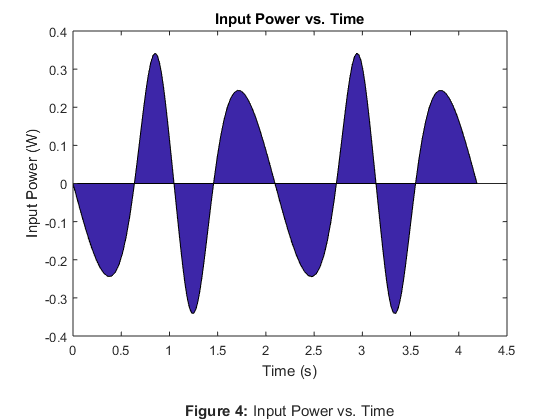
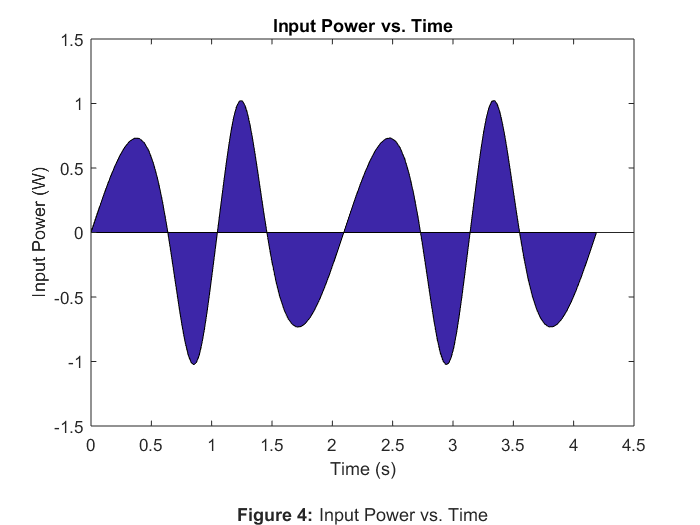
Commenting; fixed power input

diff --git a/Lab 5b/html/Rahul_Goyal_main.html b/Lab 5b/html/Rahul_Goyal_main.html
@@ -66,7 +66,7 @@ table td { padding:7px 5px; text-align:left; vertical-align:top; border:1px soli
 
 
 
-  </style></head><body><div class="content"><h1>Rahul_Goyal_main Usage and Description</h1><!--introduction--><p>ME 326 Winter 2018 - Laboratory Assignment #5b</p><p><b>Author:</b> RAHUL GOYAL</p><p>California Polytechnic State University, San Luis Obispo, CA</p><p><b>Date Created:</b> February 27, 2018</p><p><b>Date Modified:</b> March 06, 2018</p><p><b>Description:</b> TODO</p><p><b>Required Files:</b> TODO</p><div><ul><li>Simulator.slx - This file uses Simulink to double integrate part of a MATLAB Function Block which describes the accelerations and forces of the simulation (only the accelerations are integrated). It outputs the positions as xout, the velocities as vout, the accelerations as aout, the forces as Fout, and the times as tout with inputs of the MATLAB function, initial conditions, and final condition.</li><li>link_solver.m - This file contains a function that represents the accelerations and forces of the simulation. It returns x with an input of u.</li></ul></div><p><b>Still To Do:</b></p><div><ul><li>Start!</li></ul></div><!--/introduction--><h2>Contents</h2><div><ul><li><a href="#1">Problem Statement</a></li><li><a href="#2">Reset</a></li><li><a href="#3">Set Values</a></li><li><a href="#4">Given Values</a></li><li><a href="#5">Initial Conditions</a></li><li><a href="#6">Simulate the Slider-Crank Using Simulink</a></li><li><a href="#7">Plotting Data Setup</a></li><li><a href="#8">Collar Force vs. Crank Angle</a></li><li><a href="#9">Magnitude of Each Pin Force vs. Crank Angle</a></li><li><a href="#10">Input Torque vs. Crank Angle</a></li><li><a href="#11">Input Power vs. Time</a></li><li><a href="#12">Simulation Animation</a></li></ul></div><h2 id="1">Problem Statement</h2><p>Crank OA rotates clockwise at the constant rate theta-dot = 3 rad/s. The connecting link AB passes through the pivoted collar at C. Note: lAB = 350 mm. Develop a complete kinematic and kinetic model of the slider-crank mechanism.</p><h2 id="2">Reset</h2><p>The following was used while debugging.</p><pre class="codeinput">close <span class="string">all</span>;
+  </style></head><body><div class="content"><h1>Rahul_Goyal_main Usage and Description</h1><!--introduction--><p>ME 326 Winter 2018 - Laboratory Assignment #5b</p><p><b>Author:</b> RAHUL GOYAL</p><p>California Polytechnic State University, San Luis Obispo, CA</p><p><b>Date Created:</b> February 27, 2018</p><p><b>Date Modified:</b> March 06, 2018</p><p><b>Description:</b> This script simulates the motion of a slider-crank. Afterwards, it compares the collar force, the magnitude of each pin force, and the input torque to the angular position of link OA and the input power to time. Additionally, it animates the slider-crank by using the simulation data.</p><p><b>Required Files:</b></p><div><ul><li>Simulator.slx - This file uses Simulink to double integrate part of a MATLAB Function Block which describes the accelerations and forces of the simulation (only the accelerations are integrated). It outputs the positions as xout, the velocities as vout, the accelerations as aout, the forces as Fout, and the times as tout with inputs of the MATLAB function, initial conditions, and final condition.</li><li>link_solver.m - This file contains a function that represents the accelerations and forces of the simulation. It returns x with an input of u.</li></ul></div><p><b>Still To Do:</b></p><div><ul><li>Start!</li></ul></div><!--/introduction--><h2>Contents</h2><div><ul><li><a href="#1">Problem Statement</a></li><li><a href="#2">Reset</a></li><li><a href="#3">Set Values</a></li><li><a href="#4">Given Values</a></li><li><a href="#5">Initial Conditions</a></li><li><a href="#6">Simulate the Slider-Crank Using Simulink</a></li><li><a href="#7">Plotting Data Setup</a></li><li><a href="#8">Collar Force vs. Crank Angle</a></li><li><a href="#9">Magnitude of Each Pin Force vs. Crank Angle</a></li><li><a href="#10">Input Torque vs. Crank Angle</a></li><li><a href="#11">Input Power vs. Time</a></li><li><a href="#12">Simulation Animation</a></li></ul></div><h2 id="1">Problem Statement</h2><p>Crank OA rotates clockwise at the constant rate theta-dot = 3 rad/s. The connecting link AB passes through the pivoted collar at C. Note: lAB = 350 mm. Develop a complete kinematic and kinetic model of the slider-crank mechanism.</p><h2 id="2">Reset</h2><p>The following was used while debugging.</p><pre class="codeinput">close <span class="string">all</span>;
 clear <span class="string">all</span>;
 clc;
 </pre><h2 id="3">Set Values</h2><p>The following is used to easily change the initial and final angular positions of link OA.</p><pre class="codeinput">t2_0 = deg2rad(0);              <span class="comment">% Angular position initial of link OA (rad)</span>
@@ -114,25 +114,25 @@ ydot3_0 = tdot_2*r_2*cos(t2_0) - tdot3_0*l_ab/2*cos(t3_0);
 <span class="comment">% Velocity Initial Conditions Matrix</span>
 v_0 = [rdot3_0, tdot3_0, xdot2_0, ydot2_0, xdot3_0, ydot3_0];
 </pre><h2 id="6">Simulate the Slider-Crank Using Simulink</h2><p>The following calls the Simulink file Simulator.slx, which outputs the positions as xout, the velocities as vout, the accelerations as aout, the forces as Fout, and the times as tout with with link_solver.m as the input for the MATLAB Fuction, tdot_2, t2_0, v_0, and x_0 as the inputs for the initial conditions, and theta2_stop as the input for the final conditions.</p><pre class="codeinput">sim(<span class="string">'Simulator.slx'</span>);
-</pre><h2 id="7">Plotting Data Setup</h2><p>The following sets up easy access to data for plotting.</p><pre class="codeinput"><span class="comment">% TODO</span>
-t_2s = t2_0 + tdot_2*tout;
+</pre><h2 id="7">Plotting Data Setup</h2><p>The following sets up easy access to data for plotting.</p><pre class="codeinput">t_2s = t2_0 + tdot_2*tout;      <span class="comment">% Angular positions of link OA (rad)</span>
 
-FO_x = Fout(:, 1);              <span class="comment">% TODO</span>
-FO_y = Fout(:, 2);              <span class="comment">% TODO</span>
-FA_x = Fout(:, 3);              <span class="comment">% TODO</span>
-FA_y = Fout(:, 4);              <span class="comment">% TODO</span>
-F_C = Fout(:, 5);               <span class="comment">% TODO</span>
-T = Fout(:, 6);                 <span class="comment">% TODO</span>
-</pre><h2 id="8">Collar Force vs. Crank Angle</h2><p>The following plots the collar force as a function of crank angle.</p><p>By visual observation, the graph has periodic relative maximums at about -75&deg; and -225&deg;, periodic relative minimums at about -150&deg; and -300&deg;, and periodic zeroes at about 0&deg;, -100&deg;, -175&deg;, and -250&deg;. Converting these angles to positive values, the graph has periodic relative maximums at about 285&deg; and 135&deg;, periodic relative minimums at about 210&deg; and 60&deg;, and periodic zeroes at about 0&deg;, 260&deg;, 185&deg;, and 110&deg;.</p><p>The relative maximums and minimums signify peaks in the magnitude of the collar force; the zeroes signify zeroes in the magnitude of the collar force. Watching an animation of the slider-crank, the collar force peaks seem to occur when the velocity of link AB with respect to the collar is changing most noticeably and the collar force zeroes seem to occur when the velocity of link AB with respect to the collar flips directions. This behavior is as expected because acceleration is the derivative of velocity, and net force is directly and linearly related to acceleration. The collar exerts a force on link AB, and so it is reasonable that this force behaves similarly to the expected net force on link AB. However, because the collar force and the net force are not the same, analysis of the collar force reveals some smaller relative peaks as well. These are likely a result of the fact that the ceneter of mass of link AB crosses the collar.</p><pre class="codeinput">plot(rad2deg(t_2s), F_C, <span class="string">'LineWidth'</span>, 2);
+FO_x = Fout(:, 1);              <span class="comment">% Force[x] in pin O (N)</span>
+FO_y = Fout(:, 2);              <span class="comment">% Force[y] in pin O (N)</span>
+FA_x = Fout(:, 3);              <span class="comment">% Force[x] in pin A (N)</span>
+FA_y = Fout(:, 4);              <span class="comment">% Force[y] in pin A (N)</span>
+F_C = Fout(:, 5);               <span class="comment">% Force in pin C (N)</span>
+T = Fout(:, 6);                 <span class="comment">% Input torque (Nm)</span>
+</pre><h2 id="8">Collar Force vs. Crank Angle</h2><p>The following plots the collar force as a function of crank angle.</p><p>By visual observation, the graph has periodic relative maximums at about -75&deg; and -225&deg;, periodic relative minimums at about -150&deg; and -300&deg;, and periodic zeroes at about 0&deg;, -100&deg;, -175&deg;, and -250&deg;. Converting these angles to positive values, the graph has periodic relative maximums at about 285&deg; and 135&deg;, periodic relative minimums at about 210&deg; and 60&deg;, and periodic zeroes at about 0&deg;, 260&deg;, 185&deg;, and 110&deg;.</p><p>The maximums and minimums signify maximum and minimum peaks, respectively, in the collar force; the zeroes signify zeroes in the magnitude of the collar force. Watching an animation of the slider-crank, the collar force peaks seem to occur when the velocity of link AB with respect to the collar is changing most noticeably and the collar force zeroes seem to occur when the velocity of link AB with respect to the collar flips directions. This behavior is as expected because acceleration is the derivative of velocity, and net force is directly and linearly related to acceleration. The collar exerts a force on link AB, and so it is reasonable that this force behaves similarly to the expected net force on link AB. However, because the collar force and the net force are not the same, analysis of the collar force reveals some smaller relative peaks as well. These are likely a result of the fact that the center of mass of link AB crosses the collar.</p><pre class="codeinput">plot(rad2deg(t_2s), F_C, <span class="string">'LineWidth'</span>, 2);
 title(<span class="string">'Collar Force vs. Crank Angle'</span>);
 xlabel({<span class="string">'Crank Angle (&deg;)'</span>
         <span class="string">''</span>
         <span class="comment">% Figure label</span>
         <span class="string">'\bfFigure 1: \rmCollar Force vs. Crank Angle'</span>});
 ylabel(<span class="string">'Collar Force (N)'</span>);
-</pre><img vspace="5" hspace="5" src="Rahul_Goyal_main_01.png" alt=""> <h2 id="9">Magnitude of Each Pin Force vs. Crank Angle</h2><p>The following plots the magnitude of each pin force as a function of crank angle.</p><p>The graphs of the magnitudes of each pin force resemble each other. By visual observation, both graphs have a periodic relative maximum at about -175&deg; and periodic relative minimums at about -100&deg; and -250&deg;. Converting these angles to positive values, the graphs have a periodic relative maximum at about 185&deg; and periodic relative minimums at about 260&deg; and 110&deg;.</p><p>The relative maximums and minimums signify maximum and minimum peaks, respectively, in pin O and pin A. Unlike the collar force, neither pin force is ever zero. TODO</p><pre class="codeinput">F_O = hypot(FO_x, FO_y);        <span class="comment">% Magnitude of force of pin O (N)</span>
+</pre><img vspace="5" hspace="5" src="Rahul_Goyal_main_01.png" style="width:560px;height:420px;" alt=""> <h2 id="9">Magnitude of Each Pin Force vs. Crank Angle</h2><p>The following plots the magnitude of each pin force as a function of crank angle.</p><p>The graphs of the magnitudes of each pin force resemble each other. By visual observation, both graphs have periodic relative maximums at about 0&deg; and -175&deg; and periodic relative minimums at about -100&deg; and -250&deg;. Converting these angles to positive values, the graphs have a periodic relative maximum at about 0&deg; and 185&deg; and periodic relative minimums at about 260&deg; and 110&deg;.</p><p>The maximums and minimums signify peaks in the magnitude of the force in pin O and pin A. Unlike the collar force, neither pin force is ever zero. TODO</p><pre class="codeinput">F_O = hypot(FO_x, FO_y);        <span class="comment">% Magnitude of force of pin O (N)</span>
 F_A = hypot(FA_x, FA_y);        <span class="comment">% Magnitude of force of pin A (N)</span>
 
+<span class="comment">% Plot</span>
 plot(rad2deg(t_2s), F_O, rad2deg(t_2s), F_A, <span class="string">'LineWidth'</span>, 2);
 title(<span class="string">'Magnitude of Each Pin Force vs. Crank Angle'</span>);
 xlabel({<span class="string">'Crank Angle (&deg;)'</span>
@@ -141,21 +141,24 @@ xlabel({<span class="string">'Crank Angle (&deg;)'</span>
         <span class="string">'\bfFigure 2: \rmMagnitude of Each Pin Force vs. Crank Angle'</span>});
 ylabel(<span class="string">'Pin Force (N)'</span>);
 legend(<span class="string">'|Fo|'</span>, <span class="string">'|Fa|'</span>);
-</pre><img vspace="5" hspace="5" src="Rahul_Goyal_main_02.png" alt=""> <h2 id="10">Input Torque vs. Crank Angle</h2><p>The following plots the input torque as a function of crank angle.</p><p>By visual observation, the input torque behaves like a negative derivative of the magnitude of each pin force. TODO</p><pre class="codeinput">plot(rad2deg(t_2s), T, <span class="string">'LineWidth'</span>, 2);
+</pre><img vspace="5" hspace="5" src="Rahul_Goyal_main_02.png" style="width:560px;height:420px;" alt=""> <h2 id="10">Input Torque vs. Crank Angle</h2><p>The following plots the input torque as a function of crank angle.</p><p>By visual observation, the graph has a periodic relative maximums at about -150&deg; and -300&deg;, periodic relative minimums at about -75&deg; and -225&deg;, and periodic zeroes at about 0&deg;, -100&deg;, -175&deg;, and -250&deg;. Converting these angles to positive values, the graph has periodic relative maximums at about 210&deg; and 60&deg;, periodic relative minimums at about 285&deg; and 135&deg;, and periodic zeroes at about 0&deg;, 260&deg;, 185&deg;, and 110&deg;.</p><p>The maximums and minimums signify maximum and minimum peaks, respectively, in the input torque. Comparing the maximums and minimums of the input torque to the maximums and minimums of the collar force, it's seen that the input torque increases as the collar force decreases, and vice versa.</p><p>Interestingly, the input torque behaves almost like a negative derivative of the magnitude of each pin force, but this is likely just a coincidence.</p><pre class="codeinput">plot(rad2deg(t_2s), T, <span class="string">'LineWidth'</span>, 2);
 title(<span class="string">'Input Torque vs. Crank Angle'</span>);
 xlabel({<span class="string">'Crank Angle (&deg;)'</span>
         <span class="string">''</span>
         <span class="comment">% Figure label</span>
         <span class="string">'\bfFigure 3: \rmInput Torque vs. Crank Angle'</span>});
 ylabel(<span class="string">'Input Torque (Nm)'</span>);
-</pre><img vspace="5" hspace="5" src="Rahul_Goyal_main_03.png" alt=""> <h2 id="11">Input Power vs. Time</h2><p>The following plots the input power as a function of time. TODO</p><pre class="codeinput">area(tout, T);
+</pre><img vspace="5" hspace="5" src="Rahul_Goyal_main_03.png" style="width:560px;height:420px;" alt=""> <h2 id="11">Input Power vs. Time</h2><p>The following plots the input power as a function of time.</p><p>The input power can be defined by the input torque times the angular velocity. The area under the curve represents energy because energy is equivalent to the integral of power with respect to time.</p><p>The graph of the input power resembles the graph of the input torque, however this is only because the angular velocity of link OA is constant. By visual observation, the areas under the curve sum to zero. Therefore, energy is conserved over a cycle.</p><pre class="codeinput">P = T*tdot_2;                   <span class="comment">% Input power (W)</span>
+
+<span class="comment">% Plot</span>
+area(tout, P);
 title(<span class="string">'Input Power vs. Time'</span>);
 xlabel({<span class="string">'Time (s)'</span>
         <span class="string">''</span>
         <span class="comment">% Figure label</span>
         <span class="string">'\bfFigure 4: \rmInput Power vs. Time'</span>});
 ylabel(<span class="string">'Input Power (W)'</span>);
-</pre><img vspace="5" hspace="5" src="Rahul_Goyal_main_04.png" alt=""> <h2 id="12">Simulation Animation</h2><p>The following animates the slider-crank by using the simulation data.</p><pre class="codeinput"><span class="comment">% Cartesian Coordinates of Vector R1</span>
+</pre><img vspace="5" hspace="5" src="Rahul_Goyal_main_04.png" style="width:560px;height:420px;" alt=""> <h2 id="12">Simulation Animation</h2><p>The following animates the slider-crank by using the simulation data.</p><pre class="codeinput"><span class="comment">% Cartesian Coordinates of Vector R1</span>
 r1_x = [0, r_1];
 r1_y = [0, 0];
 <span class="comment">% Cartesian Coordinates of the COM of Vector R1</span>
@@ -227,7 +230,7 @@ ylabel(<span class="string">'Y Position (m)'</span>);
 legend(<span class="string">'Vector R1'</span>, <span class="string">'Vector R2'</span>, <span class="string">'Link AB'</span>, <span class="keyword">...</span>
        <span class="string">'Path of Link OA COM'</span>, <span class="string">'Path of Link AB COM'</span>, <span class="keyword">...</span>
        <span class="string">'Path of Point A'</span>, <span class="string">'Path of Point B'</span>);
-</pre><img vspace="5" hspace="5" src="Rahul_Goyal_main_05.png" alt=""> <p class="footer"><br><a href="http://www.mathworks.com/products/matlab/">Published with MATLAB&reg; R2017a</a><br></p></div><!--
+</pre><img vspace="5" hspace="5" src="Rahul_Goyal_main_05.png" style="width:560px;height:420px;" alt=""> <p class="footer"><br><a href="http://www.mathworks.com/products/matlab/">Published with MATLAB&reg; R2017a</a><br></p></div><!--
 ##### SOURCE BEGIN #####
 %% Rahul_Goyal_main Usage and Description
 % ME 326 Winter 2018 - Laboratory Assignment #5b
@@ -241,9 +244,12 @@ legend(<span class="string">'Vector R1'</span>, <span class="string">'Vector R2'
 % *Date Modified:* March 06, 2018
 %
 % *Description:*
-% TODO
+% This script simulates the motion of a slider-crank. Afterwards, it
+% compares the collar force, the magnitude of each pin force, and the input
+% torque to the angular position of link OA and the input power to time.
+% Additionally, it animates the slider-crank by using the simulation data.
 % 
-% *Required Files:* TODO
+% *Required Files:*
 %
 % * Simulator.slx - This file uses Simulink to double integrate part of a
 % MATLAB Function Block which describes the accelerations and forces of the
@@ -354,15 +360,14 @@ sim('Simulator.slx');
 %% Plotting Data Setup
 % The following sets up easy access to data for plotting.
 
-% TODO
-t_2s = t2_0 + tdot_2*tout;
+t_2s = t2_0 + tdot_2*tout;      % Angular positions of link OA (rad)
 
-FO_x = Fout(:, 1);              % TODO
-FO_y = Fout(:, 2);              % TODO
-FA_x = Fout(:, 3);              % TODO
-FA_y = Fout(:, 4);              % TODO
-F_C = Fout(:, 5);               % TODO
-T = Fout(:, 6);                 % TODO
+FO_x = Fout(:, 1);              % Force[x] in pin O (N)
+FO_y = Fout(:, 2);              % Force[y] in pin O (N)
+FA_x = Fout(:, 3);              % Force[x] in pin A (N)
+FA_y = Fout(:, 4);              % Force[y] in pin A (N)
+F_C = Fout(:, 5);               % Force in pin C (N)
+T = Fout(:, 6);                 % Input torque (Nm)
 
 
 
@@ -376,20 +381,20 @@ T = Fout(:, 6);                 % TODO
 % about 285° and 135°, periodic relative minimums at about 210° and 60°,
 % and periodic zeroes at about 0°, 260°, 185°, and 110°.
 % 
-% The relative maximums and minimums signify peaks in the magnitude of the
-% collar force; the zeroes signify zeroes in the magnitude of the collar
-% force. Watching an animation of the slider-crank, the collar force peaks
-% seem to occur when the velocity of link AB with respect to the collar is
-% changing most noticeably and the collar force zeroes seem to occur when
-% the velocity of link AB with respect to the collar flips directions. This
-% behavior is as expected because acceleration is the derivative of
-% velocity, and net force is directly and linearly related to acceleration.
-% The collar exerts a force on link AB, and so it is reasonable that this
-% force behaves similarly to the expected net force on link AB. However,
-% because the collar force and the net force are not the same, analysis of
-% the collar force reveals some smaller relative peaks as well. These are
-% likely a result of the fact that the ceneter of mass of link AB crosses
-% the collar.
+% The maximums and minimums signify maximum and minimum peaks,
+% respectively, in the collar force; the zeroes signify zeroes in the
+% magnitude of the collar force. Watching an animation of the slider-crank,
+% the collar force peaks seem to occur when the velocity of link AB with
+% respect to the collar is changing most noticeably and the collar force
+% zeroes seem to occur when the velocity of link AB with respect to the
+% collar flips directions. This behavior is as expected because
+% acceleration is the derivative of velocity, and net force is directly and
+% linearly related to acceleration. The collar exerts a force on link AB,
+% and so it is reasonable that this force behaves similarly to the expected
+% net force on link AB. However, because the collar force and the net force
+% are not the same, analysis of the collar force reveals some smaller
+% relative peaks as well. These are likely a result of the fact that the
+% center of mass of link AB crosses the collar.
 plot(rad2deg(t_2s), F_C, 'LineWidth', 2);
 title('Collar Force vs. Crank Angle');
 xlabel({'Crank Angle (°)'
@@ -405,19 +410,20 @@ ylabel('Collar Force (N)');
 % crank angle.
 % 
 % The graphs of the magnitudes of each pin force resemble each other. By
-% visual observation, both graphs have a periodic relative maximum at about
-% -175° and periodic relative minimums at about -100° and -250°. Converting
-% these angles to positive values, the graphs have a periodic relative
-% maximum at about 185° and periodic relative minimums at about 260° and
-% 110°.
+% visual observation, both graphs have periodic relative maximums at about
+% 0° and -175° and periodic relative minimums at about -100° and -250°.
+% Converting these angles to positive values, the graphs have a periodic
+% relative maximum at about 0° and 185° and periodic relative minimums at
+% about 260° and 110°.
 % 
-% The relative maximums and minimums signify maximum and minimum peaks,
-% respectively, in pin O and pin A. Unlike the collar force, neither pin
-% force is ever zero. TODO
+% The maximums and minimums signify peaks in the magnitude of the force in
+% pin O and pin A. Unlike the collar force, neither pin force is ever zero.
+% TODO
 
 F_O = hypot(FO_x, FO_y);        % Magnitude of force of pin O (N)
 F_A = hypot(FA_x, FA_y);        % Magnitude of force of pin A (N)
 
+% Plot
 plot(rad2deg(t_2s), F_O, rad2deg(t_2s), F_A, 'LineWidth', 2);
 title('Magnitude of Each Pin Force vs. Crank Angle');
 xlabel({'Crank Angle (°)'
@@ -432,8 +438,23 @@ legend('|Fo|', '|Fa|');
 %% Input Torque vs. Crank Angle
 % The following plots the input torque as a function of crank angle.
 % 
-% By visual observation, the input torque behaves like a negative
-% derivative of the magnitude of each pin force. TODO
+% By visual observation, the graph has a periodic relative maximums at
+% about -150° and -300°, periodic relative minimums at about -75° and
+% -225°, and periodic zeroes at about 0°, -100°, -175°, and -250°. 
+% Converting these angles to positive values, the graph has periodic
+% relative maximums at about 210° and 60°, periodic relative minimums at
+% about 285° and 135°, and periodic zeroes at about 0°, 260°, 185°, and
+% 110°.
+% 
+% The maximums and minimums signify maximum and minimum peaks,
+% respectively, in the input torque. Comparing the maximums and minimums of
+% the input torque to the maximums and minimums of the collar force, it's
+% seen that the input torque increases as the collar force decreases, and
+% vice versa.
+% 
+% Interestingly, the input torque behaves almost like a negative derivative
+% of the magnitude of each pin force, but this is likely just a
+% coincidence.
 plot(rad2deg(t_2s), T, 'LineWidth', 2);
 title('Input Torque vs. Crank Angle');
 xlabel({'Crank Angle (°)'
@@ -445,8 +466,21 @@ ylabel('Input Torque (Nm)');
 
 
 %% Input Power vs. Time
-% The following plots the input power as a function of time. TODO
-area(tout, T);
+% The following plots the input power as a function of time.
+% 
+% The input power can be defined by the input torque times the angular
+% velocity. The area under the curve represents energy because energy is
+% equivalent to the integral of power with respect to time.
+% 
+% The graph of the input power resembles the graph of the input torque,
+% however this is only because the angular velocity of link OA is constant.
+% By visual observation, the areas under the curve sum to zero. Therefore,
+% energy is conserved over a cycle.
+
+P = T*tdot_2;                   % Input power (W)
+
+% Plot
+area(tout, P);
 title('Input Power vs. Time');
 xlabel({'Time (s)'
         ''
